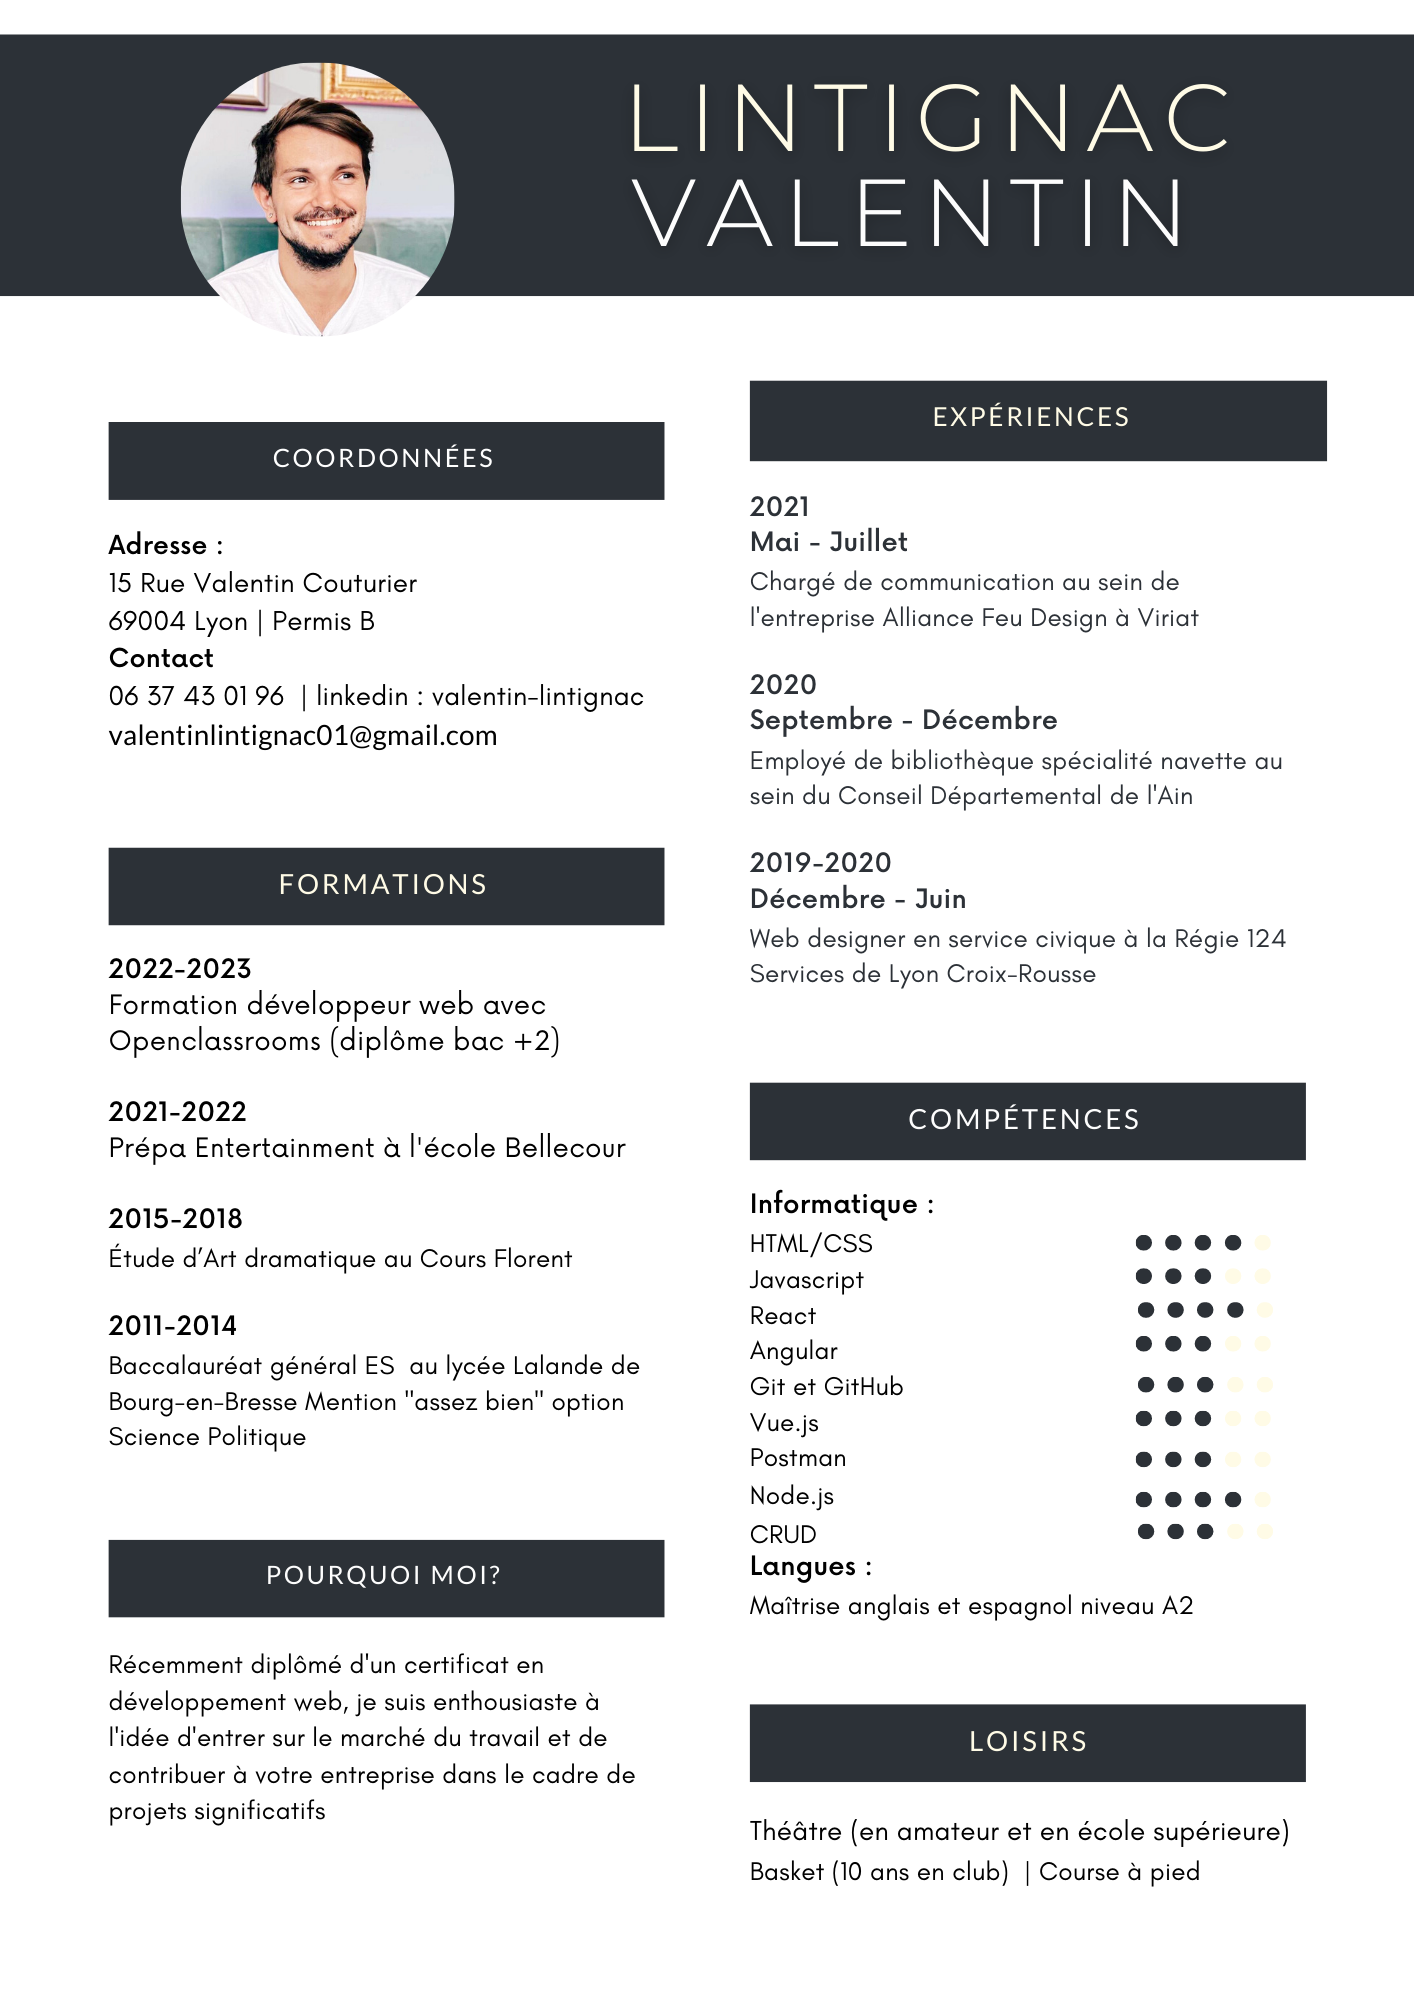
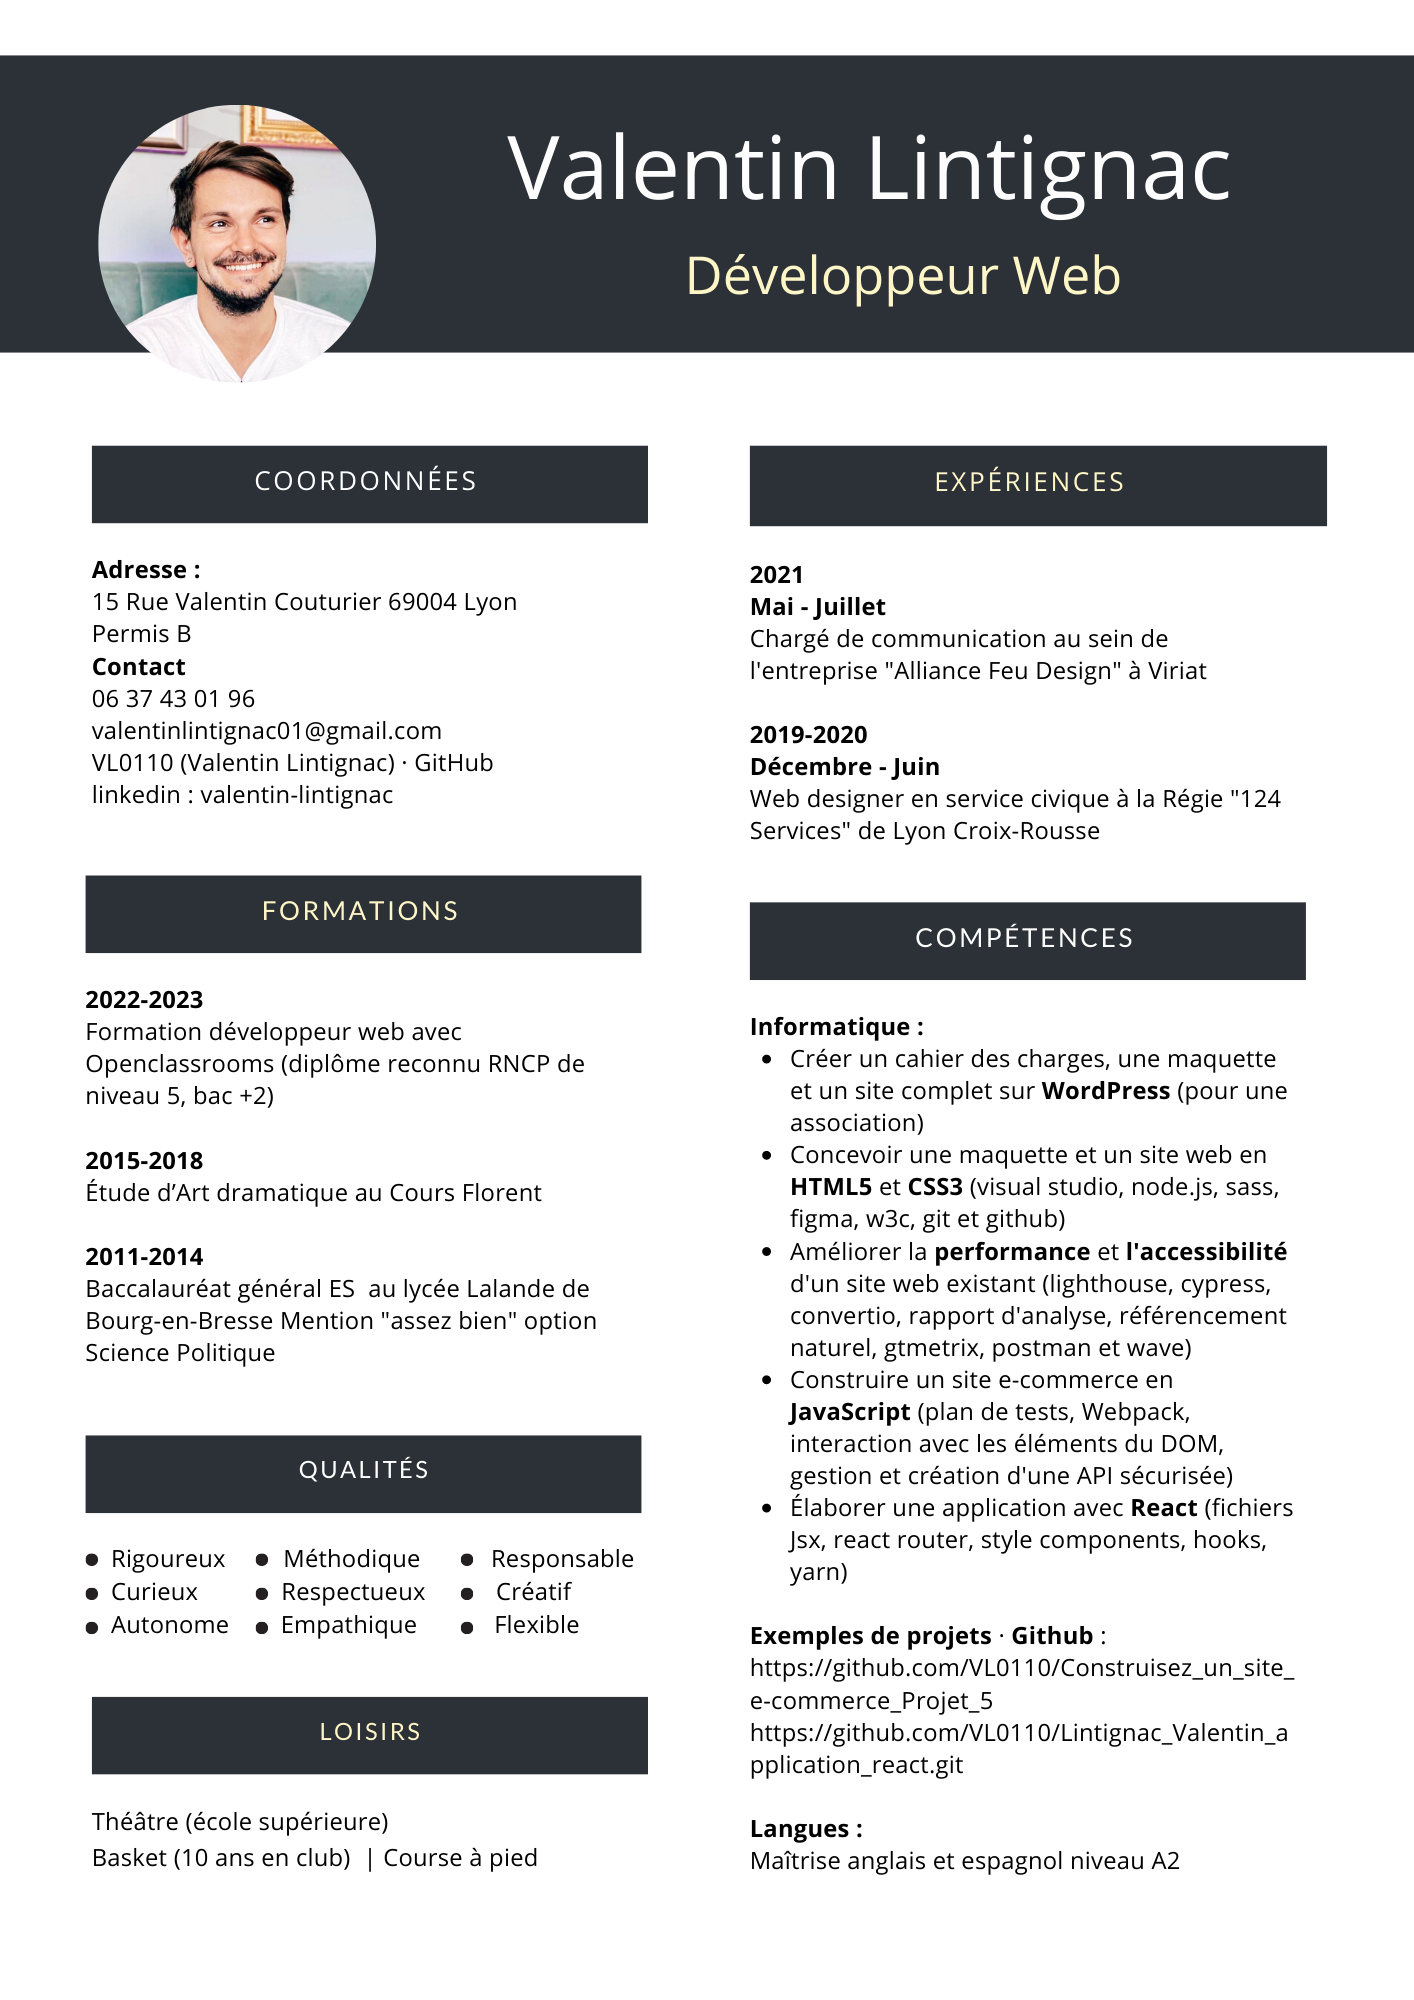
cv en ligne 2.1 test 09/03/2023

Changed region(s): [[0.0, 0.0, 1.0, 0.961], [0.4045, 0.341, 0.4356, 0.372]]

diff --git a/src/datas/collapses.jsx b/src/datas/collapses.jsx
@@ -2,19 +2,31 @@
 
 export const collapses = [
     {
+        title: 'Objectif',
+        content: 'Récemment titulaire d\'un diplôme de niveau bac +2 en développement web (front-end), je recherche actuellement un poste dans ce secteur d\'activité.'
+    },
+    {
         title: 'Compétences',
-        content: 'Les annonces postées sur Kasa garantissent une fiabilité totale. Les photos sont conformes aux logements, et toutes les informations sont régulièrement vérifiées  par nos équipes.'
+        content: 'Informatique : Créer un cahier des charges, une maquette et un site complet sur WordPress (pour une association). Concevoir une maquette et un site web en HTML5 et CSS3 (visual studio, node.js, sass, figma, w3c, git et github). Améliorer la performance et l\'accessibilité d\'un site web existant (lighthouse, cypress, convertio, rapport d\'analyse, référencement naturel, gtmetrix, postman et wave). Construire un site e-commerce en JavaScript (plan de tests, Webpack, interaction avec les éléments du DOM, gestion et création d\'une API sécurisée). Élaborer une application avec React (fichiers Jsx, react router, style components, hooks, yarn). '
+    },
+    {
+        title: 'Soft-skills',
+        content: '    Rigoureux  |  Méthodique  |  Responsable  |  Curieux  |  Respectueux  |  Créatif  |  Autonome  |  Empathique  |  Flexible'
     },
     {
         title: 'Formations',
-        content: 'La bienveillance fait partie des valeurs fondatrices de Kasa. Tout comportement discriminatoire ou de perturbation du voisinage entraînera une exclusion de notre plateforme.'
+        content: '2022-2023 : Formation développeur web avec Openclassrooms (diplôme reconnu RNCP de niveau 5, bac +2) | 2021-2022 : Prépa Entertainment à l\'école Bellecour 2015-2018 : Étude d’Art dramatique au Cours Florent 2011-2014 : Baccalauréat général ES  au lycée Lalande de Bourg-en-Bresse Mention "assez bien" option Science Politique '
     },
     {
         title: 'Expériences',
-        content: 'Nos équipes se tiennent à votre disposition pour vous fournir une expérience parfaite. N\'hésitez pas à nous contacter si vous avez la moindre question.'
+        content: '2021 Mai - Juillet : Chargé de communication au sein de l\'entreprise "Alliance Feu Design" à Viriat | 2020 Septembre - Décembre : Employé de bibliothèque spécialité navette au sein du Conseil Départemental de l\'Ain | 2019-2020 Décembre - Juin : Web designer en service civique à la Régie "124 Services" de Lyon Croix-Rousse'
+    },
+    {
+        title: 'Langues',
+        content: 'Langues: Maîtrise anglais et espagnol niveau A2.'
     },
     {
         title: 'Hobbies',
-        content: 'La sécurité est la priorité de Kasa. Aussi bien pour nos hôtes que pour les voyageurs, chaque logement correspond aux critères de sécurité établis par nos services. En laissant une note aussi bien à l\'hôte qu\'au locataire, cela permet à nos équipes de vérifier que les standards sont bien respectés. Nous organisons également des ateliers sur la sécurité domestique pour nos hôtes.'
+        content: 'Théâtre (école supérieure) | Basket (10 ans en club)  | Course à pied'
     }
 ]

diff --git a/src/pages/Contact/index.jsx b/src/pages/Contact/index.jsx
@@ -20,6 +20,7 @@ const Main = styled.main`
   padding-bottom: 200px;
 `
 
+
 // Appel "const" About avec les éléments de la page (header,main,picture,dropdown,collapses,footer)
 
 const Contact = () => {
